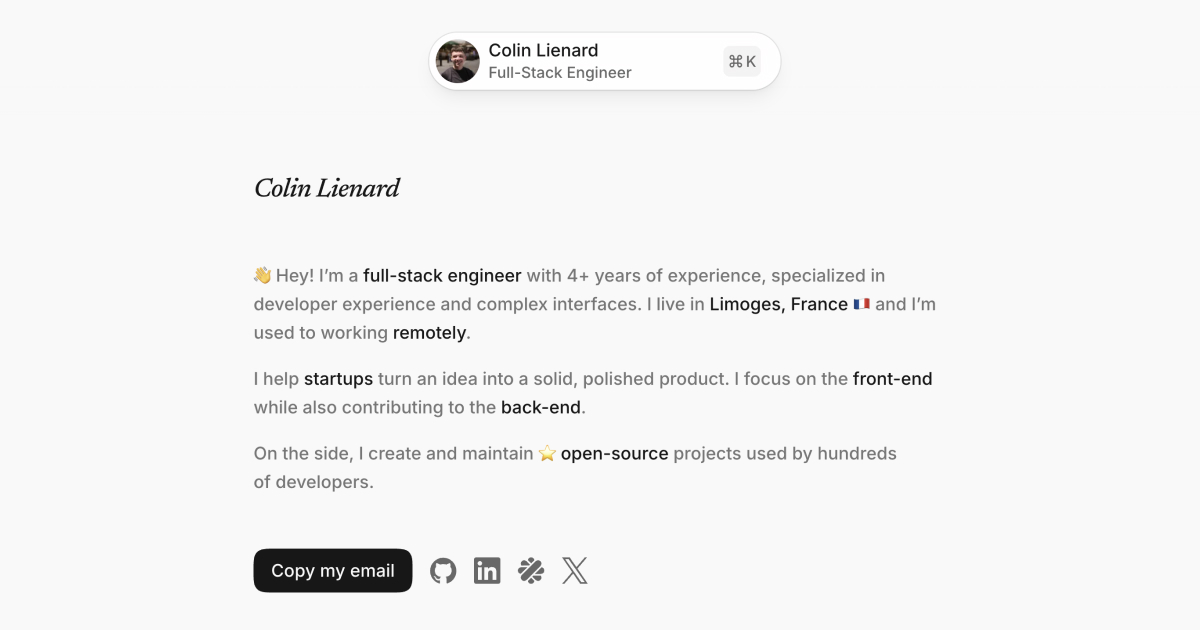
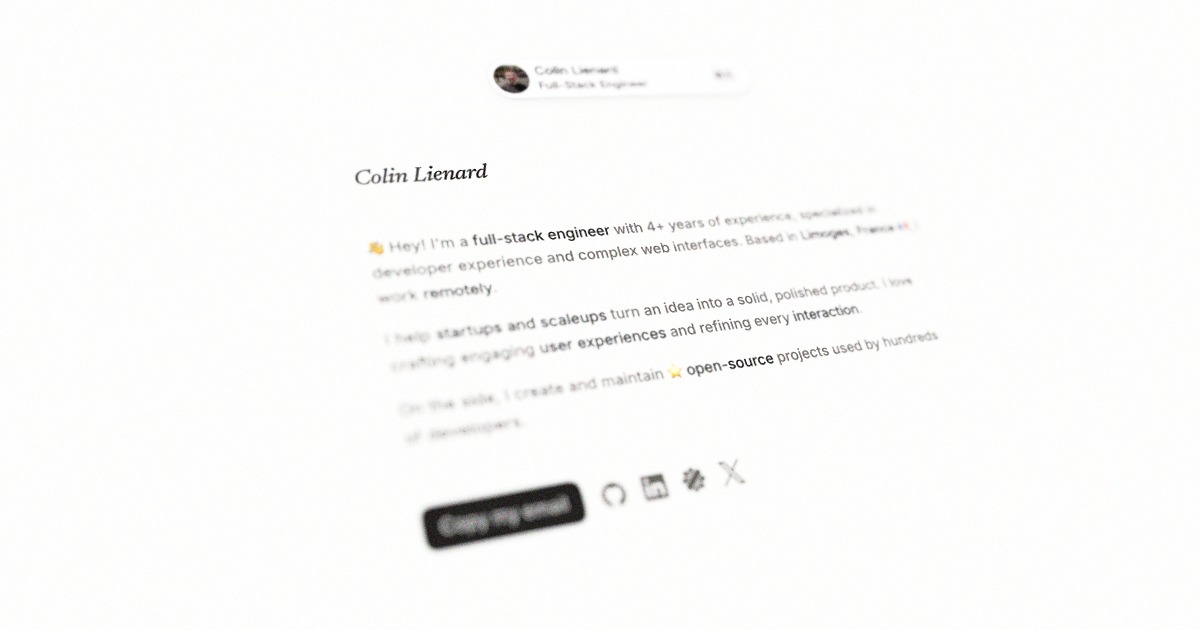
feat: some small improvements (#17)

diff --git a/src/i18n/index.ts b/src/i18n/index.ts
@@ -1,11 +1,4 @@
-export const defaultLang = 'fr';
-
-export const languages = {
-	fr: { label: 'FR', icon: '🇫🇷', path: '/' },
-	en: { label: 'EN', icon: '🇬🇧', path: '/en' },
-} as const;
-
-export const ui = {
+const ui = {
 	fr: {
 		'menu.role': 'Full-Stack Engineer',
 		'menu.available': 'Disponible dès septembre',
@@ -32,8 +25,10 @@ export const ui = {
 		'hero.p1.post': '.',
 		'hero.p2.pre': "J'aide des ",
 		'hero.p2.link': 'startups et scaleups',
-		'hero.p2.mid1': ' à transformer une idée en produit solide et soigné. Je me concentre sur le ',
-		'hero.p2.mid2': ' tout en pouvant contribuer au ',
+		'hero.p2.mid1': " à transformer une idée en produit solide et soigné. J'aime concevoir des ",
+		'hero.p2.ux': 'expériences utilisateur',
+		'hero.p2.mid2': ' captivantes et peaufiner chaque ',
+		'hero.p2.interaction': 'interaction',
 		'hero.p2.post': '.',
 		'hero.p3.pre': 'En parallèle, je crée et maintiens des projets ⭐ ',
 		'hero.p3.link': 'open-source',
@@ -71,6 +66,7 @@ export const ui = {
 		'contact.malt.rate': '450 €/jour',
 		'contact.malt.location': 'Limoges et distanciel',
 		'contact.x.cta': 'Suivre',
+		'footer.sourceCode': 'Voir le code source',
 		'footer.allRightsReserved': 'Tous droits réservés',
 	},
 	en: {
@@ -99,8 +95,10 @@ export const ui = {
 		'hero.p1.post': '.',
 		'hero.p2.pre': 'I help ',
 		'hero.p2.link': 'startups and scaleups',
-		'hero.p2.mid1': ' turn an idea into a solid, polished product. I focus on the ',
-		'hero.p2.mid2': ' while also contributing to the ',
+		'hero.p2.mid1': ' turn an idea into a solid, polished product. I love crafting engaging ',
+		'hero.p2.ux': 'user experiences',
+		'hero.p2.mid2': ' and refining every ',
+		'hero.p2.interaction': 'interaction',
 		'hero.p2.post': '.',
 		'hero.p3.pre': 'On the side, I create and maintain ⭐ ',
 		'hero.p3.link': 'open-source',
@@ -136,11 +134,14 @@ export const ui = {
 		'contact.malt.rate': '€450/day',
 		'contact.malt.location': 'France and remote',
 		'contact.x.cta': 'Follow',
+		'footer.sourceCode': 'See the source code',
 		'footer.allRightsReserved': 'All rights reserved',
 	},
 } as const;
 
-export type Lang = keyof typeof ui;
+type Lang = keyof typeof ui;
+
+const defaultLang: Lang = 'fr';
 
 export function getLang(locale: string | undefined): Lang {
 	if (locale && Object.hasOwn(ui, locale)) return locale as Lang;

diff --git a/src/components/Contacts.svelte b/src/components/Contacts.svelte
@@ -76,7 +76,9 @@
 	const hover =
 		(index: number): Attachment<HTMLAnchorElement> =>
 		(node) => {
-			return on(node, 'mouseenter', async () => {
+			return on(node, 'pointerenter', async (event) => {
+				if (event.pointerType !== 'mouse') return;
+
 				let prevOpen = open;
 				open = true;
 

diff --git a/README.md b/README.md
@@ -1,6 +1,6 @@
 <div align="center">
 
-# [colinlienard.com](https://colinlienard.com)
+# [colinlienard.com](https://colinlienard.com/en)
 
 </div>
 
